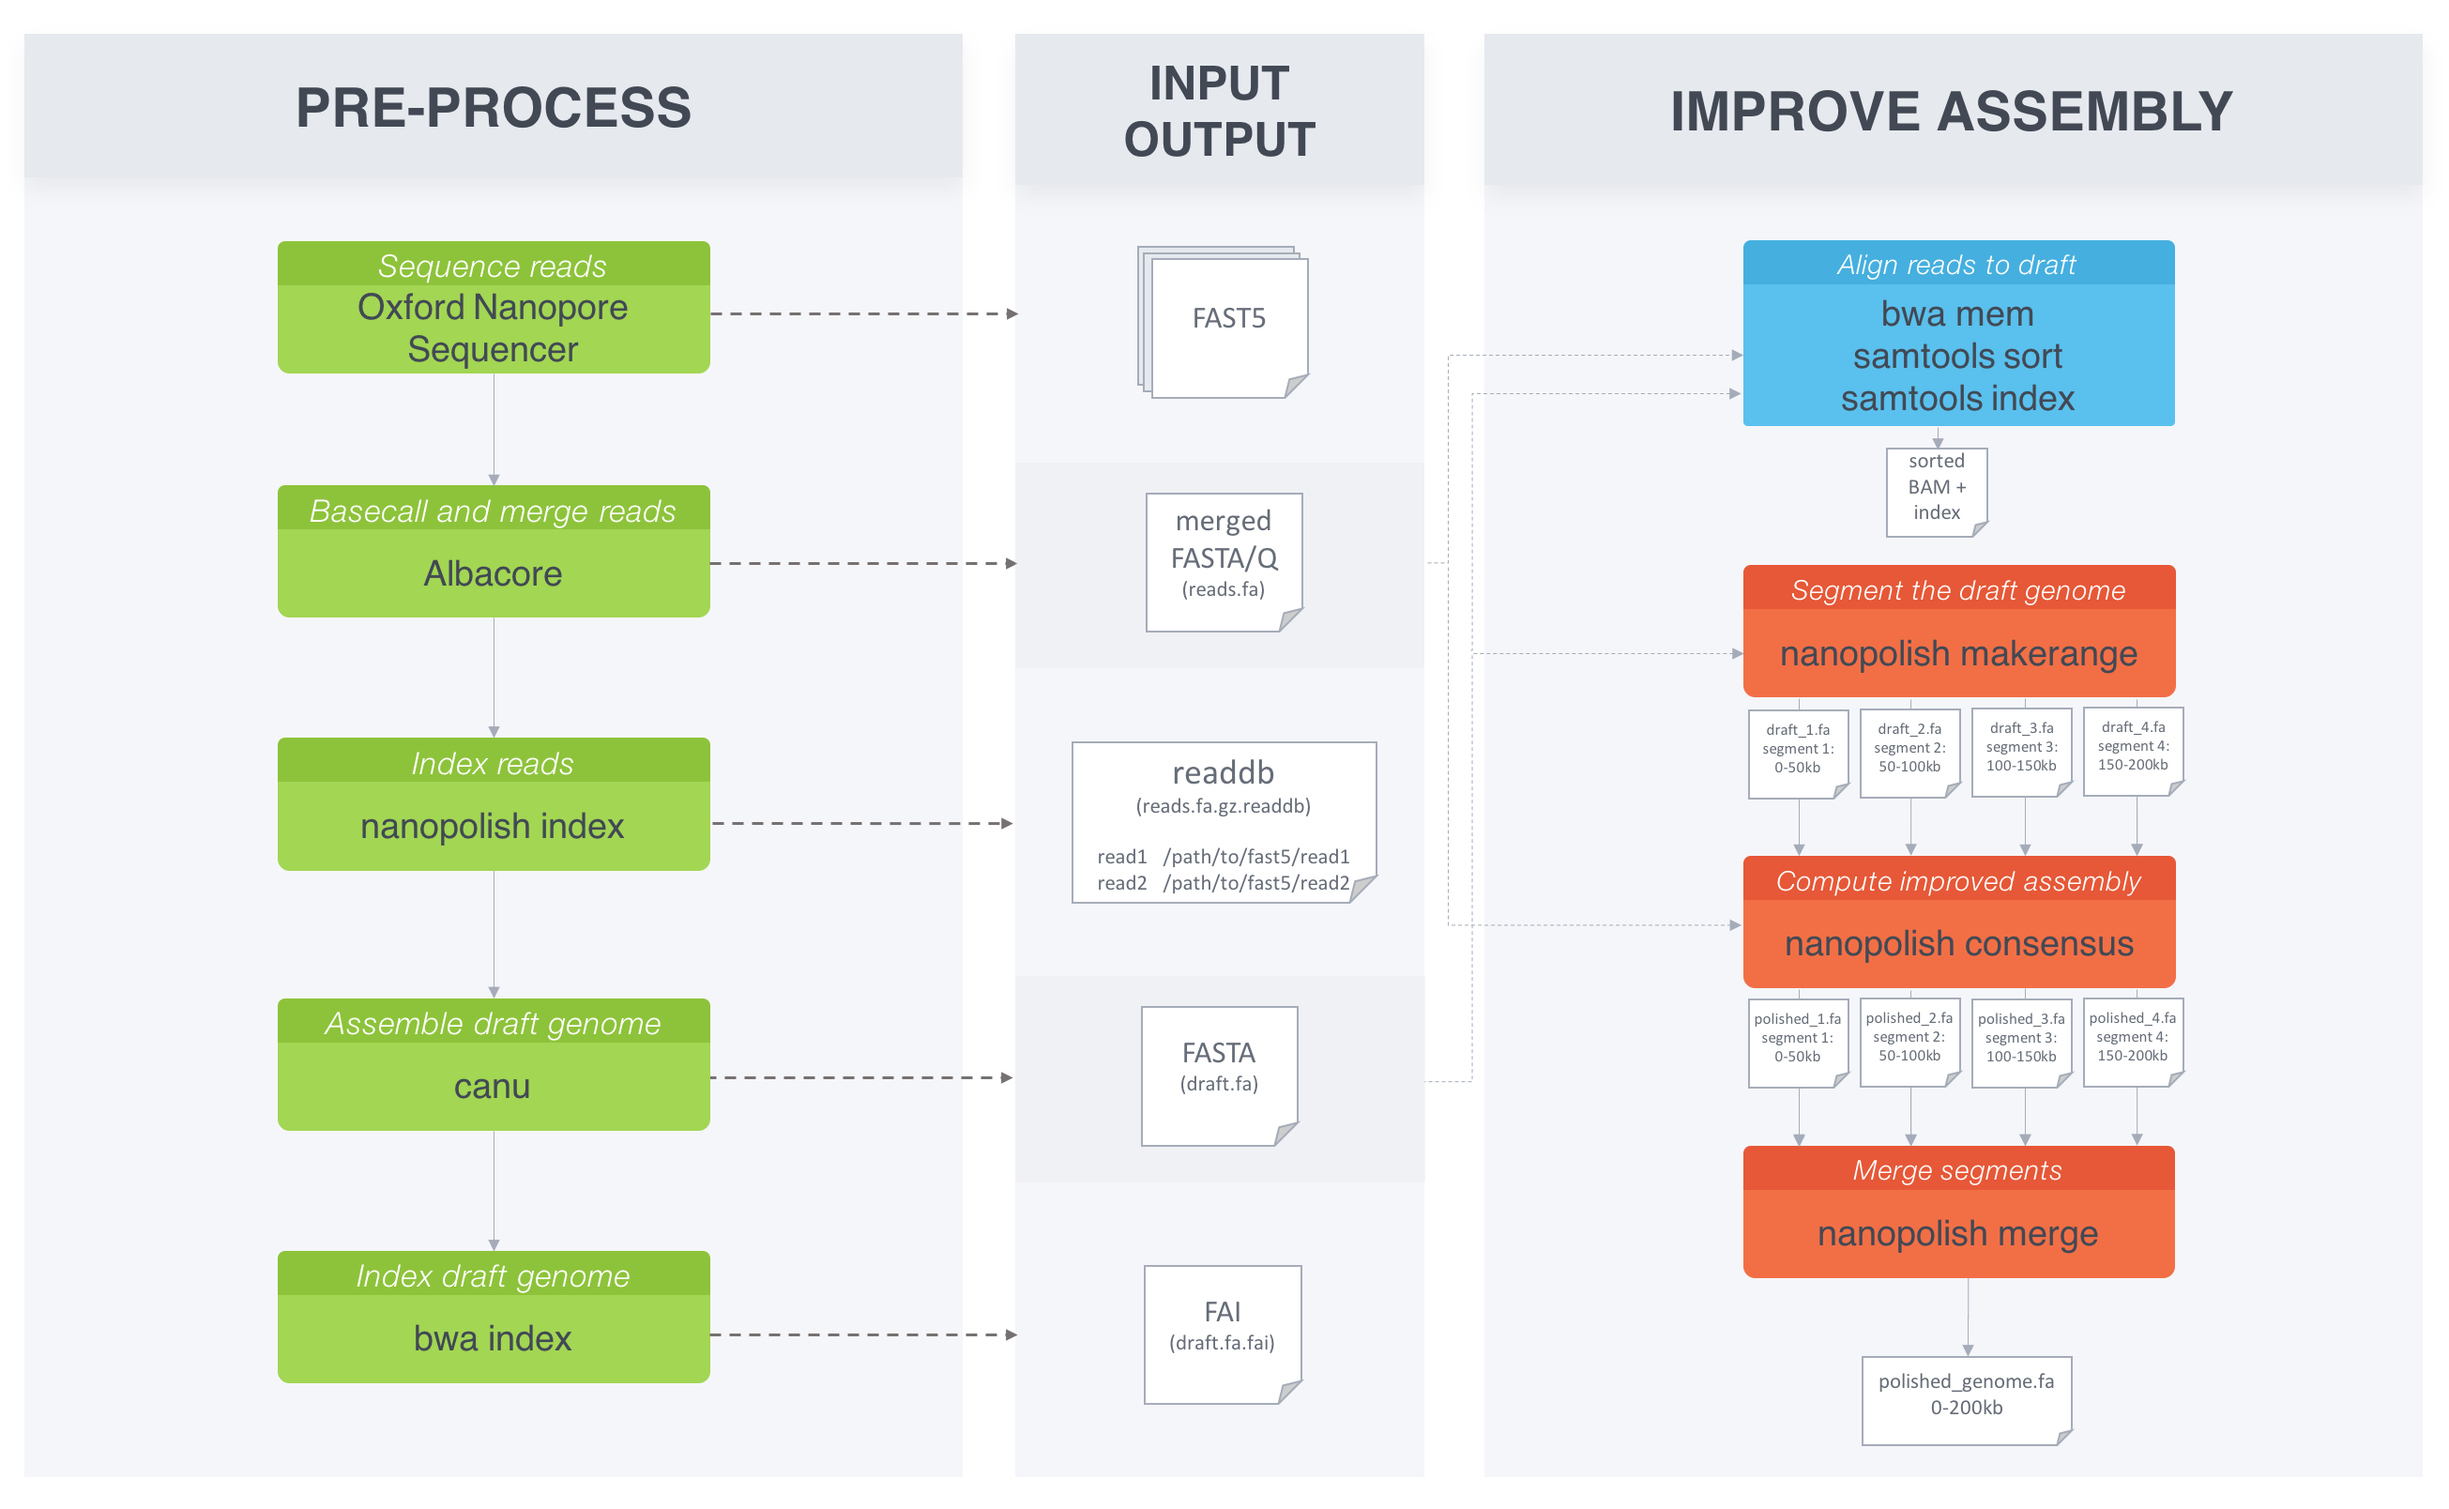
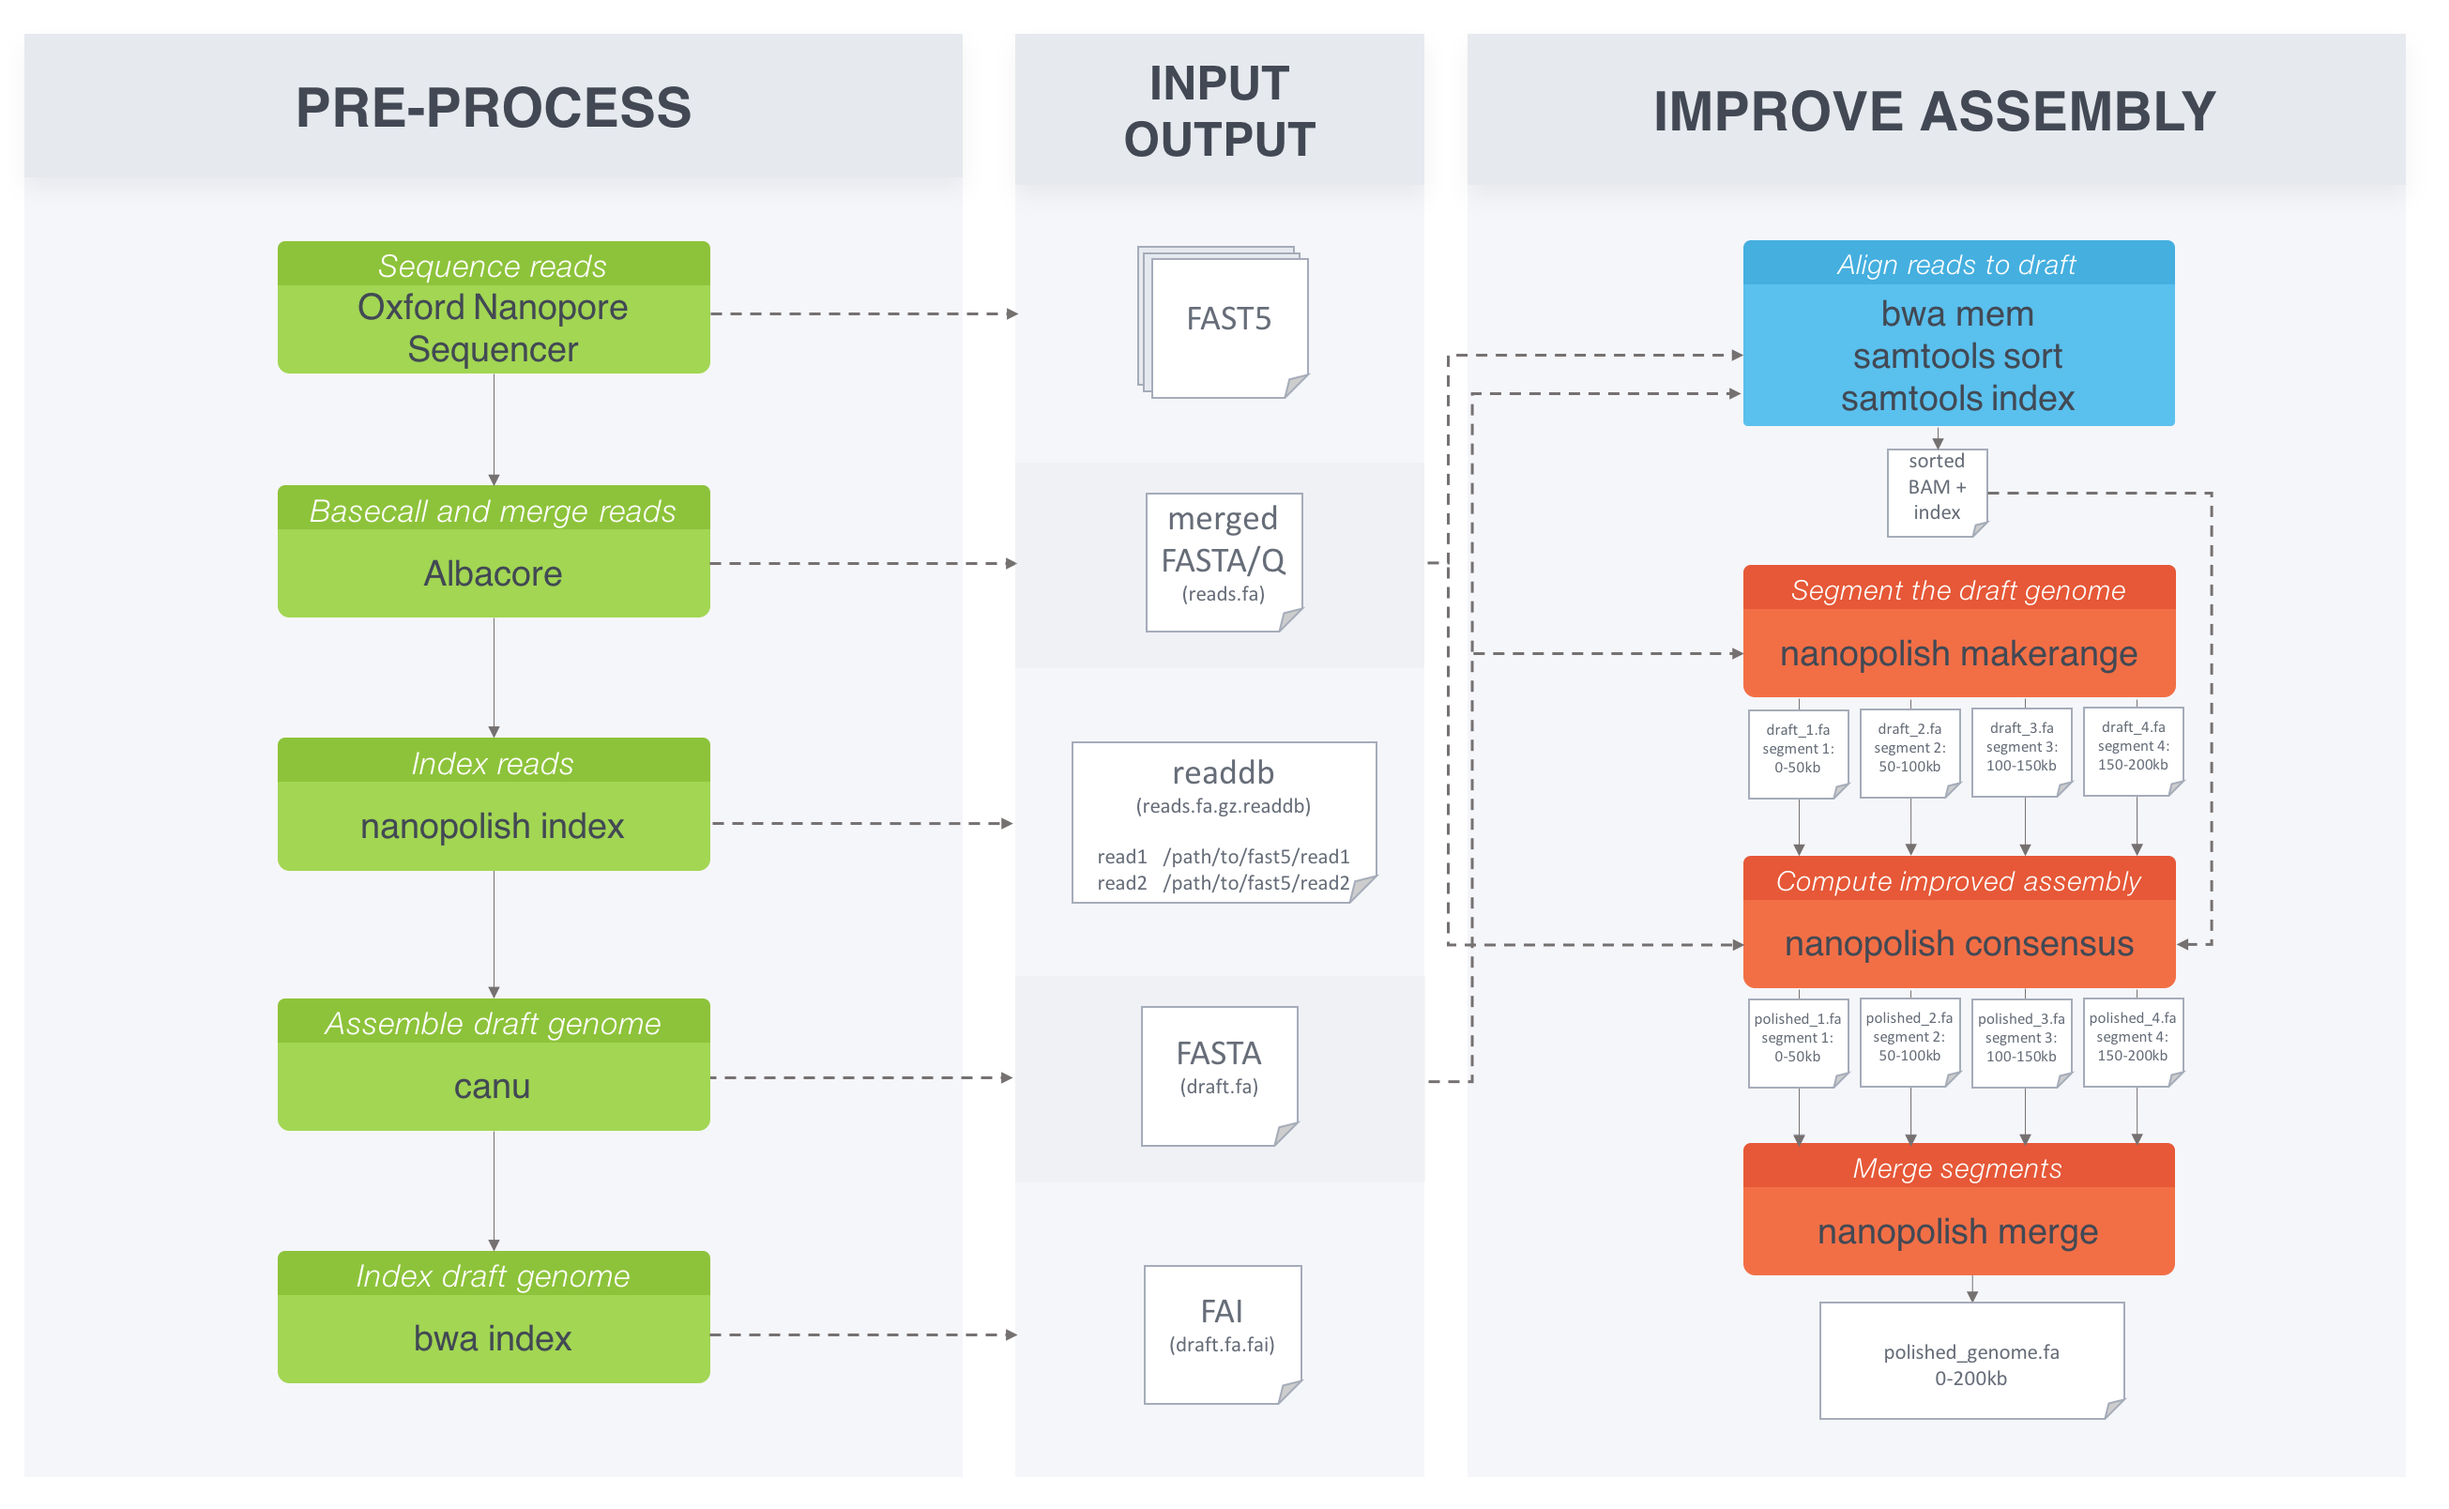
add new workflow image, and more quickstart tutorialinfo specific to example dataset

diff --git a/docs/source/quickstart.rst b/docs/source/quickstart.rst
@@ -24,19 +24,23 @@ Details:
 * Sample :	E. coli str. K-12 substr. MG1655
 * Instrument : MinION sequencing R9.4 chemistry
 * Basecaller : Albacore v2.0.1
+* Region: "tig00000001:200000-202000"
 
+This is a subset of reads that aligned to a 2kb region in the E. coli draft assembly.
 You should find the following files:
 
 * ``reads.fasta`` : subset of basecalled reads
-* ``draft.fasta`` : draft genome assembly
-* ``draft.fasta.fai`` : draft genome assembly index
+* ``draft.fa`` : draft genome assembly
+* ``draft.fa.fai`` : draft genome assembly index
 * ``fast5_files/`` : a directory containing FAST5 files
 
 Overview
 -------------------------------
 
+The pipeline below describes the recommended analysis workflow for larger datasets. In this tutorial, we will run through the basic steps of the pipeline for this smaller (2kb) dataset.
+
 .. figure:: _static/nanopolish-workflow.png
-  :scale: 80%
+  :scale: 90%
   :alt: nanopolish-tutorial-workflow
 
 Data preprocessing
@@ -51,43 +55,45 @@ We get the following files: ``reads.fasta.fa.gz``, ``reads.fasta.fa.gz.fai``, ``
 Compute the draft genome assembly using CANU
 -----------------------------------------------
 
-To create a draft genome assembly we have used CANU. ::
+As computing the draft genome assembly takes a few hours we have included the pre-assembled data for you (``draft.fa``).
+We used the following paramaeters with `canu <canu.readthedocs.io>`_ ::
 
     canu \
-		-p ecoli -d outdir genomeSize=4.6m \
-		-nanopore-raw albacore-2.0.1-merged.fastq \
-		gnuplotTested = true \
-		useGrid = false
-
-As this takes a few hours, we have already pre-assembled the data: ``draft.fa``.
+    -p ecoli -d outdir genomeSize=4.6m \
+    -nanopore-raw albacore-2.0.1-merged.fastq \
+    gnuplotTested = true \
+    useGrid = false
 
 Computing a new consensus sequence for a draft assembly
 ------------------------------------------------------------------------
 
-Now that we have the ``reads.fasta`` indexed with ``nanopolish index``, and have a draft genome assembly ``draft.fa`` we can improve the assembly with nanopolish. The first step is to index the draft genome using BWA INDEX: :: 
+Now that we have the ``reads.fasta`` indexed with ``nanopolish index``, and have a draft genome assembly ``draft.fa`` we can begin to improve the assembly with nanopolish. We have already included the index in the example dataset (``draft.fa.fai``). We generated this file using the following command: :: 
 
-    # Index the draft genome
     bwa index draft.fa
 
 Then we align the original non-assembled reads (``reads.fasta``) to the draft assembly (``draft.fa``). ::
 
     # Align the basecalled reads to the draft sequence
-    bwa mem -x ont2d -t 8 draft.fa reads.fa | samtools sort -o reads.sorted.bam -T reads.tmp -
+    bwa mem -x ont2d -t 8 draft.fa reads.fasta | samtools sort -o reads.sorted.bam -T reads.tmp -
     samtools index reads.sorted.bam
 
-Now, we use nanopolish to compute the consensus sequence (the genome is polished in 50kb blocks and there will be one output file per block). We'll run this in parallel: ::
+We now run the consensus algorithm. For larger datasets we use ``nanopolish_makerange.py`` to split the draft genome assembly into 50kb segments, so that we can run the consensus algorithm on each segment in parallel. The output will be the polished segments in ``fasta`` format. 
+Our dataset is only covering a 2kb region so we use the following command. For more general use, see ``Manual``::
 
-    python nanopolish_makerange.py draft.fa | parallel --results nanopolish.results -P 8 \
-    nanopolish variants --consensus polished.{1}.fa -w {1} -r reads.fasta -b reads.sorted.bam -g draft.fa -t 4 --min-candidate-frequency 0.1
+    nanopolish variants --consensus polished.fa \
+    -w "tig00000001:200000-202000" \
+    -r reads.fasta \
+    -b reads.sorted.bam \
+    -g draft.fa
 
-This command will run the consensus algorithm on eight 50kbp segments of the genome at a time, using 4 threads each. Change the ``-P`` and ``--threads`` options as appropriate for the machines you have available.
-
-After all polishing jobs are complete, you can merge the individual 50kb segments together back into the final assembly: ::
-
-    python nanopolish_merge.py polished.*.fa > polished_genome.fa
-
+We are left with our desired output: ``polished.fa``.
 
 Evaluate the assembly
 ---------------------------------
 
-To analyze how nanopolish performed improving the accuracy we use `MUMmer <https://github.com/mummer4/mummer>`_. MUMmer contains "dnadiff" a script that enables us to see a rreport on alignment statistics. With dnadiff we can compare the two different assemblies. The value that we are interested in is ``AvgIdentity`` which is a measurement of how similar the genome assemblies are to a reference genome.
+To analyze how nanopolish performed improving the accuracy we use `MUMmer <https://github.com/mummer4/mummer>`_. MUMmer contains "dnadiff" a script that enables us to see a report on alignment statistics. With dnadiff we can compare the two different assemblies. ::
+
+    MUMmer3.23/dnadiff --prefix draft.dnadiff <reference> draft.fa
+    MUMmer3.23/dnadiff --prefix polished.dnadiff <reference> polished.fa
+
+This generates ``draft.dnadiff.report`` and ``polished.dnadiff.report`` along with other files. The metric we are interested in is ``AvgIdentity`` under [Alignments] 1-to-1, which is a measurement of how similar the genome assemblies are to the reference genome. If we see a higher value for the polished assembly than the draft, we can conclude that the nanopolish consensus algorithm worked successfuly.
